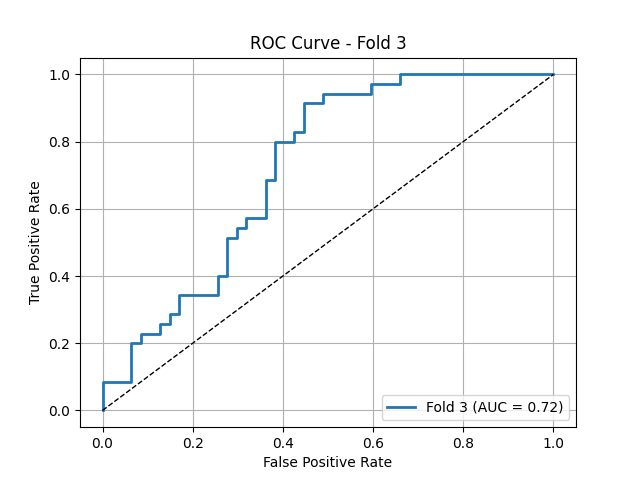
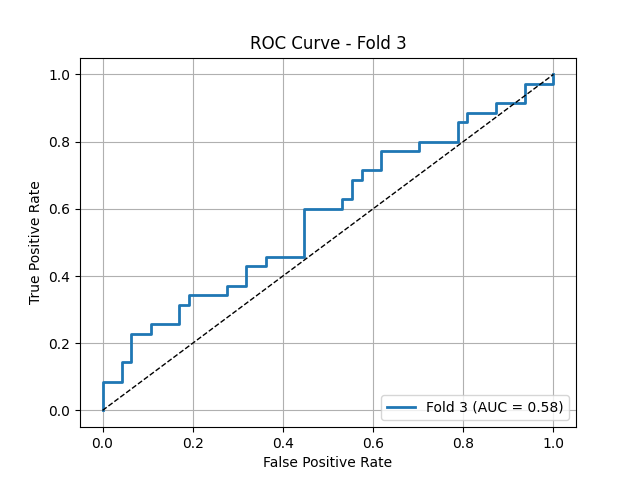
focal and asymmetric loss combined

diff --git a/models.py b/models.py
@@ -222,6 +222,23 @@ class AsymmetricLoss(nn.Module):
         loss = -loss_pos - loss_neg
         return loss.mean()
     
+class FocalLoss(nn.Module):
+    def __init__(self, alpha=0.25, gamma=2.0, reduction='mean'):
+        super(FocalLoss, self).__init__()
+        self.alpha = alpha
+        self.gamma = gamma
+        self.reduction = reduction
+
+    def forward(self, inputs, targets):
+        bce_loss = F.binary_cross_entropy_with_logits(inputs, targets, reduction='none')
+        probs = torch.sigmoid(inputs)
+        p_t = targets * probs + (1 - targets) * (1 - probs)
+        alpha_t = targets * self.alpha + (1 - targets) * (1 - self.alpha)
+        loss = alpha_t * (1 - p_t) ** self.gamma * bce_loss
+        return loss.mean() if self.reduction == 'mean' else loss.sum()
+    
+
+    
 
 # this model is binary classification model: malignant, benign    
 class BinaryClassification(pl.LightningModule):
@@ -272,7 +289,9 @@ class BinaryClassification(pl.LightningModule):
                     gamma_pos=0.0,     # do not suppress learning from malignant (minority)
                     gamma_neg=4.0,     # suppress easy benign (majority) examples
                     clip=0.05          # clip predictions near 0 or 1 to avoid overconfidence
-                )# AsymmetricLoss() # nn.BCEWithLogitsLoss()  # More stable than BCELoss
+                )# AsymmetricLoss() # nn.BCEWithLogitsLoss()  # More stable than 
+        self.loss_fn2 = FocalLoss()
+
         self.accuracy_metric = BinaryAccuracy()  # Accuracy metric using TorchMetrics
         self.auc_metric = torchmetrics.AUROC(task="binary")
 
@@ -326,8 +345,11 @@ class BinaryClassification(pl.LightningModule):
         if len(batch) == 2: 
             x, y = batch 
             scores, scores_tail = self.forward(x)  
-            loss = self.loss_fn(scores, y.float()) + self.loss_fn(scores_tail[0], y.float()) + \
-                        self.loss_fn(scores_tail[1], y.float()) + self.loss_fn(scores_tail[2], y.float()) + self.loss_fn(scores_tail[3], y.float())
+            loss = self.loss_fn(scores, y.float())*1.5 + self.loss_fn(scores_tail[0], y.float()) + \
+                        self.loss_fn(scores_tail[1], y.float()) + self.loss_fn(scores_tail[2], y.float()) + self.loss_fn(scores_tail[3], y.float()) +\
+                        self.loss_fn2(scores, y.float())*1.5 + self.loss_fn2(scores_tail[0], y.float()) + \
+                        self.loss_fn2(scores_tail[1], y.float()) + self.loss_fn2(scores_tail[2], y.float()) + self.loss_fn2(scores_tail[3], y.float())
+            
         else: 
             x, x2_rad,  y = batch
             scores, scores2 = self.forward(x, x2_radiomics=x2_rad)  
